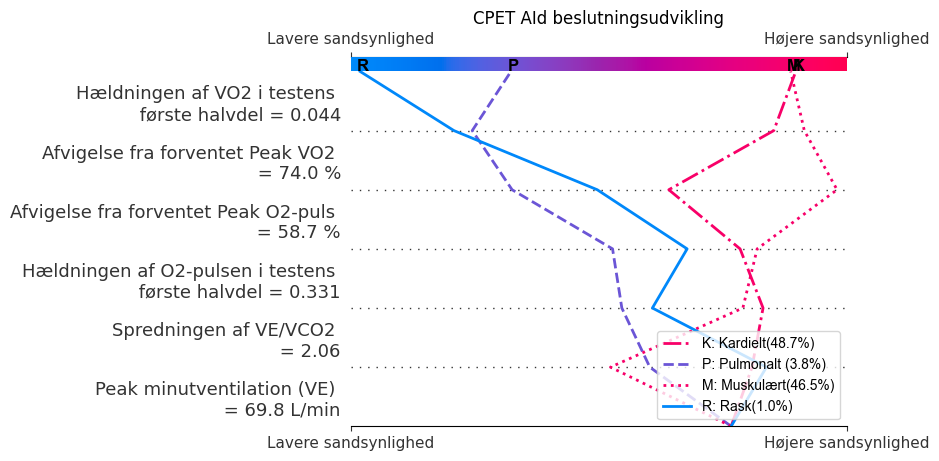
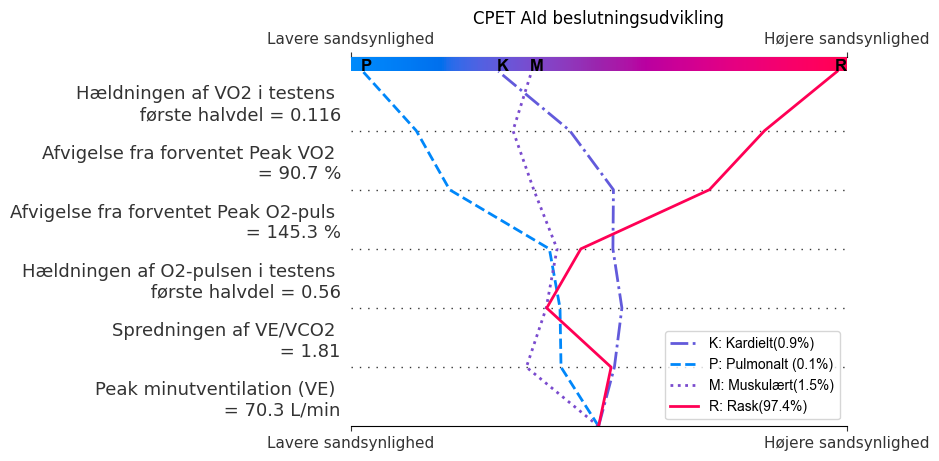
Legendplacering lavet dynamisk

diff --git a/CPET-AId/Visualisering.py b/CPET-AId/Visualisering.py
@@ -189,6 +189,7 @@ def decisionplot(Class_proba, feature_names_values, shap_values, base_values):
     HealthyLine.set_linewidth(2)
     HealthyX = HealthyLine.get_xdata()
     HealthyY = HealthyLine.get_ydata()
+    Healthycolor = HealthyLine.get_color()
 
     # slutpunktet af linjen
     x_end = HealthyX[-1]-0.03
@@ -204,7 +205,54 @@ def decisionplot(Class_proba, feature_names_values, shap_values, base_values):
         zorder = 10
     )
 
-    ax.legend([CardiacLine,PulmoLine,MuscoLine, HealthyLine], classification_names, loc = 'lower right')
+    mid = (xmin + xmax) / 2
+
+    # antag roden er første x-værdi i en linje
+    root_x = ax.lines[0].get_xdata()[0]
+
+    if root_x < mid:
+        location = "lower right"
+    else:
+        location = "lower left"
+
+
+
+    
+    xmin, xmax = ax.get_xlim()
+    mid = (xmin + xmax) / 2
+
+    # definér områder (justér hvis du vil)
+    left_limit = xmin + 0.65 * (mid - xmin)
+    right_limit = mid + 0.15 * (xmax - mid)
+
+    count_left = 0
+    count_right = 0
+
+    lines = ax.lines[6:9]
+    for line in lines:
+        x = line.get_xdata()
+        if len(x) > 1:
+            # brug punkt efter første feature
+            x_val = x[1]
+
+            if x_val <= left_limit:
+                count_left += 1
+            elif x_val >= right_limit:
+                count_right += 1
+
+    threshold = 1
+    # vælg side med mindst "trafik"
+    if count_left > count_right and count_left >= threshold:
+        loc = "lower right"
+    elif count_right > count_left and count_right >= threshold:
+        loc = "lower left"
+    else:
+        # hvis det er tæt → fallback
+        loc = "lower right"
+
+    location = loc
+
+    ax.legend([CardiacLine,PulmoLine,MuscoLine, HealthyLine], classification_names, loc = location)
     
     plt.savefig("CPET-AId/CPET-AId/decisionplot.png", bbox_inches="tight")
     # plt.show()

diff --git a/CPET-AId/Post_processering.py b/CPET-AId/Post_processering.py
@@ -33,7 +33,7 @@ def post_processing(Peak_R, pre_processed_data):
     # Array med ML-modellens feature-navne og de tilhørende værdier
     feature_names_values = [
             f"Afvigelse fra forventet Peak VO2 \n = {round(pre_processed_data[0]*100,1)} %",
-            f"Peak minutventilation (VE) \n = {pre_processed_data[1]} L/min",
+            f"Peak minutventilation (VE) \n = {round(pre_processed_data[1],1)} L/min",
             f"Hældningen af O2-pulsen i testens \n første halvdel = {round(pre_processed_data[2],3)}",
             f"Spredningen af VE/VCO2 \n = {round(pre_processed_data[3],2)}",
             f"Afvigelse fra forventet Peak O2-puls \n = {round(pre_processed_data[4]*100,1)} %",